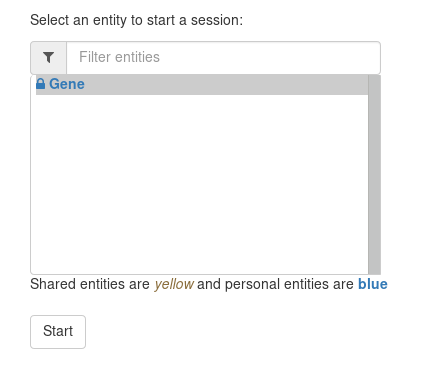
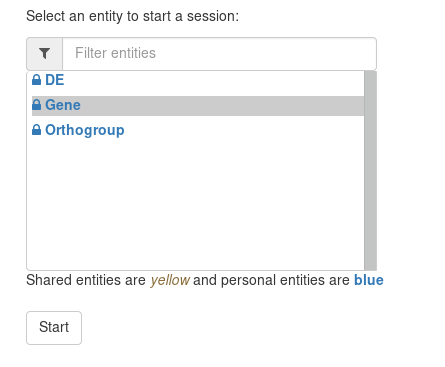
docs

Changed region(s): [[0.0599, 0.03, 0.8986, 0.7793], [0.0599, 0.8392, 0.2097, 0.9591]]

diff --git a/docs/tutorials.md b/docs/tutorials.md
@@ -6,11 +6,11 @@
 
 To use AskOmics, you will need an account. Go to the signup page by clicking to the login tab.
 
-![buttons1](static/images/buttons1.png)
+![](static/images/buttons1.png)
 
 Then, click to the signup link.
 
-![login](static/images/login.png)
+![](static/images/login.png)
 
 fill the form with the requested information.
 
@@ -18,7 +18,7 @@ fill the form with the requested information.
 
 To manage your account, use the account management tab.
 
-![account_management_tab](static/images/account_management_tab.png)
+![](static/images/account_management_tab.png)
 
 #### Update information
 
@@ -60,9 +60,9 @@ Other headers describe the entity **attributes** and **relations**. An attribute
 
 First step is to upload your CSV files into AskOmics. Click on the *upload* tab to go to the upload page.
 
-![upload_tab](static/images/upload_tab.png)
+![](static/images/upload_tab.png)
 
-On the upload page, use the *Upload* button, and add files into the upload queue. Then, start uploading the files.
+On the upload page, use the *Upload* button, and add the 3 files into the upload queue. Then, start uploading the files.
 
 The CSV files are now uploaded on AskOmics.
 
@@ -71,7 +71,7 @@ The CSV files are now uploaded on AskOmics.
 On the upload page, select the file to integrate, and click to the *Integrate* button. AskOmics shows an overview of the file.
 
 
-![gene_tsv](static/images/gene_tsv.png)
+![](static/images/gene_tsv.png)
 
 1. Columns disabler: ucheck columns to ignore them
 2. Header updater: optionally update entity or attribute names
@@ -102,20 +102,189 @@ Types are automatically detected by AskOmics, but you can override them if neede
 
 ### Interrogate datasets
 
+Once you have integrated all the datasets, it's time to query them.
+
+Click on the *Ask* button
+
+![](static/images/ask_tab.png)
+
+The page show you the starting points of you query. Select The *Gene* entity and start a query.
+
+![](static/images/startpoints.png)
+
+The *query builder* is composed of two view: the *left view*, representing entities and their relations, and the *right view*, representing attributes of the selected entity.
+
+![](static/images/query_builder_gene.png)
+
+On the left view, the *Gene* entity is selected. We see two transparent node: *Orthogroup* and *DE*. This two node are proposed, but not instantiated.
+
+On the right view, attributes of *Gene* are displayed on **attributes cells**.
+
+
+#### Simple query
+
+Click on *Launch query* to perform a query. It leads to the job page, query section. Click on the query to display an preview of the results.
+
+Results show all the *gene* URI present on the triplestore.
+
+![](static/images/results_1.png)
+
+### Display attributes
+
+Return to the query builder (*Ask* tab). Now, we want to display some attributes of the genes.
+
+On the right view, all attributes have button. Click on the *eye* button to display attributes.
+
+![](static/images/organism_visible.png)
+
+
+The eye take 3 states:
+
+- closed eye: hide the attribute
+- open eye: show the attribute
+- question mark: show the attribute, even if there is not
+
+Show the *organism*, *start* and *end* and launch the query.
+
+Results are all gene with their *organism*, *start* and *end*.
+
+![](static/images/results_2.png)
+
+### Filter on attributes
+
+Attributes can be filtered according their type (numeric, categorical or text). Some filtering functionality are common to all the attributes
+
+- Negation: the + icon
+- canel filter: use the rubber icon to reset the field
+- Link: the chain link link an attributes to the same attributes on another node
+
+
+
+#### Text
+
+Go back to the query builder. To filter on a text attributes, enter some test in the field.
+
+![](static/images/filter_label.png)
+
+Here, we ask for all entity that match the string `AT001`. This query will return one result.
+
+
+You can also perform a regular expression filter by clicking on the A icon (this will change the icon into a funnel).
+
+![](static/images/regexp_filter.png)
+
+We ask for all genes whose label contains the `AT` string. This will return 5 results.
+
+#### Numeric
+
+go back to the query builder and reset the label filter by clicking to the rubber icon.
+
+Filter the start attribute to get all genes with a start position larger than 6000.
+
+![](static/images/num_filter.png)
+
+3 genes are returned.
+
+#### Category
+
+Category is an attributes that have a limited number of value. Here, *strand* , *chromosome* and *taxon* are categories.
+
+
+On the query builder, filter the organism to get all *Arabidopsis thaliana* gene.
+
+![](static/images/organism_filter.png)
+
+5 genes are returned.
+
+
+### Link data
+
+Back on the query builder, we will now cross *Gene* with *DE* and *Orthogroup*
+
+Reset the query by clicking on the *Reset* button.
+
+Start a new query with *DE*. This datasets contain results of differentials expressions that concerns genes. Display Dpi (day post infection) and trend by clicking the eye on the attributes cells.
+
+Then, instantiate the *Gene* node by clicking on it. Display *organism* and filter only the *Arabidopsis thaliana genes*.
+
+![](static/images/complexe_query.png)
+
+This query gives you all differentials expressions measures that concerns *Arabisopsis thaliana* species.
+
+Go back to the *DE* node and filter attributes to get only genes that are overexpressed at day 7.
+
+![](static/images/complexe_query_2.png)
+
+This query return 5 results.
+
+
+![](static/images/complexe_query_2_results.png)
+
+
+Now, we want genes of *Brassica napus* that are ortholog the the *Arabidopsis thaliana* genes that are overexpressed at day 7.
+
+
+Instanciate a *Orthogroup* node from the *Gene*. From this *Orthogroup* node, instanciate another *Gene* node, and filter it with *Brassica napus*.
+
+![](static/images/complexe_query_3.png)
+
+
+We have 2 genes returned
+
+
+![](static/images/complexe_query_3_results.png)
+
+
+
+
+Well done, you have complete the AskOmics tutorial! Now try with your data.
+
+
+### Save a query state
+
+On the query builder page, use the *Files > Save Query* to save the graph state into your computer. This file represent the state of the query.
+
+![](static/images/save_query.png)
+
+Then, on the ask page, you can upload a query file to work on your query again.
+
+
+
 ### Download the results
+
+The job page show you only a preview of the results. To download the full results, click on *Save* to download a CSV file with the results.
 
 
 ## Use AskOmics with Galaxy
 
-### Connect Galaxy into AskOmics
+[Galaxy](https://galaxyproject.org/) is an open source, web-based platform for data intensive biomedical research. You can integrate Galaxy datasets into AskOmics by linking a Galaxy account into AskOmics.
 
-### Upload Galaxy datasets into AskOmics
+### Link Galaxy account into AskOmics
+
+In you galaxy account, copy your Galaxy API key (User > Preferences > Manage API key).
+
+Back in AskOmics, go to Account Management and add the Galaxy URL and Galaxy API key
+
+![](static/images/galaxy_askomics.png)
+
+### Upload a Galaxy datasets into AskOmics
+
+On the upload page, you can now upload a Galaxy datasets with the button *Get from Galaxy*.
+
+![](static/images/upload_galaxy.png)
 
 ### Save query state into Galaxy history
 
+On the query builder page, you can save a query state into a galaxy history. You can also start a query with a saved state from galaxy on the ask page.
+
+![](static/images/save_query_galaxy.png)
+
 ### Save query results into Galaxy history
 
+Result can be send into galaxy on the job page. Use the *Send to Galaxy* button.
 
+
+![](static/images/send_result_galaxy.png)
 
 
 
